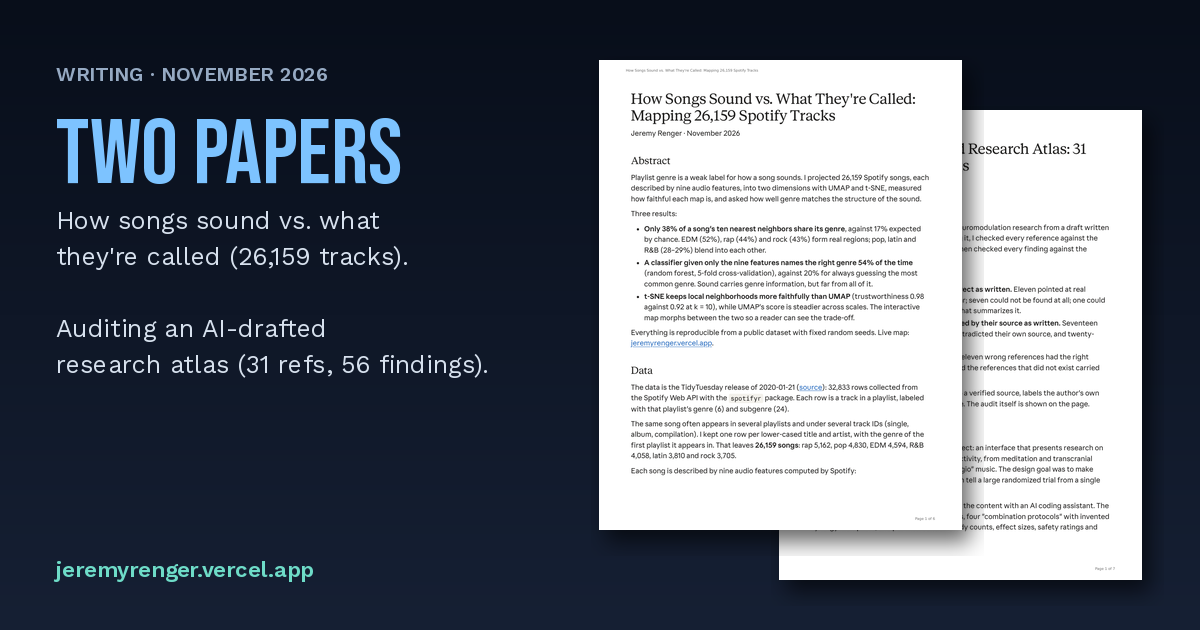
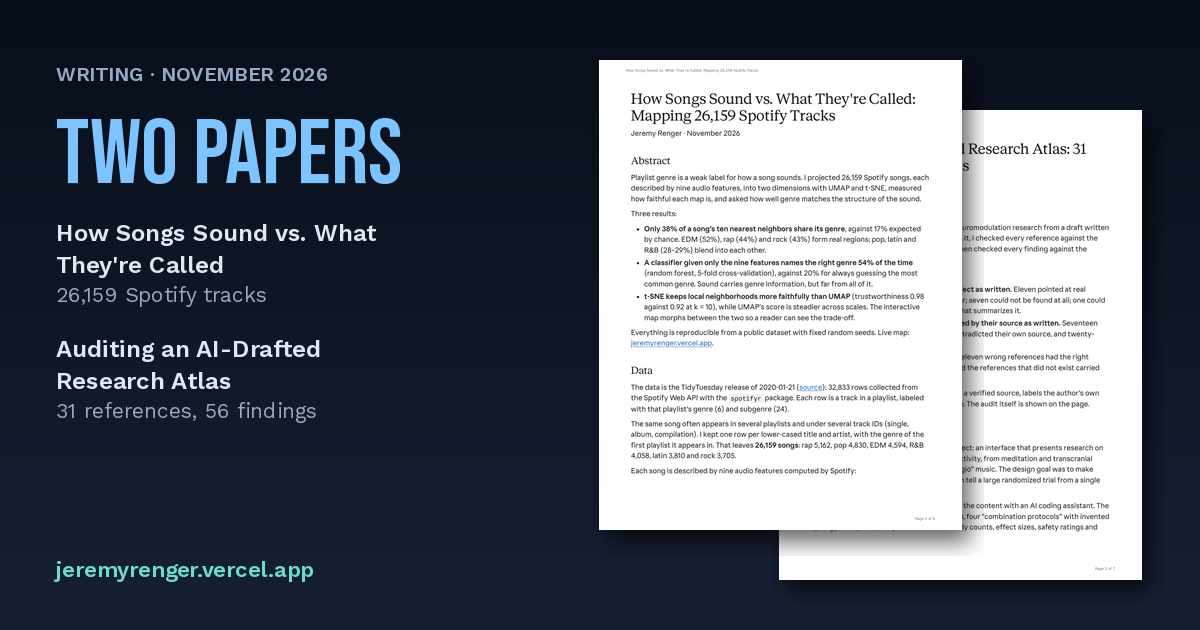
Title case for titles and headings; README lists both papers
Claude-Session: https://claude.ai/code/session_01VEVZvpex9KX87rFkiFvrYh

Changed region(s): [[0.0308, 0.5127, 0.4008, 0.6635], [0.0308, 0.3317, 0.3392, 0.4825]]

diff --git a/app/projects/frequency-atlas/page.tsx b/app/projects/frequency-atlas/page.tsx
@@ -6,7 +6,7 @@ import { FINDING_AUDIT as F, INTERVENTIONS, SOURCE_AUDIT as A } from '../../../l
 const sources = INTERVENTIONS.flatMap((i) => i.citations);
 const verified = sources.filter((c) => c.status === 'verified').length;
 
-const ogTitle = 'Frequency Atlas: a research atlas audited against its sources';
+const ogTitle = 'Frequency Atlas: A Research Atlas Audited Against Its Sources';
 const ogDescription = 'I checked all 31 references and 56 findings in an AI-written draft. 12 references and 4 findings held up. The atlas was rebuilt so every claim links to a verified source.';
 
 export const metadata: Metadata = {
@@ -56,7 +56,7 @@ export default function FrequencyAtlasPage() {
 
         <section className="project-columns reveal reveal-delay-1">
           <article className="detail-panel">
-            <h2 className="section-title" style={{ marginTop: 0 }}>Design decisions</h2>
+            <h2 className="section-title" style={{ marginTop: 0 }}>Design Decisions</h2>
             <ul className="detail-list">
               <li><strong>Evidence first:</strong> every intervention carries a strength badge, and lists sort strongest first.</li>
               <li><strong>Audit in view:</strong> the source chart shows, per intervention, how many sources have been checked.</li>
@@ -66,7 +66,7 @@ export default function FrequencyAtlasPage() {
           </article>
 
           <article className="detail-panel">
-            <h2 className="section-title" style={{ marginTop: 0 }}>Data model</h2>
+            <h2 className="section-title" style={{ marginTop: 0 }}>Data Model</h2>
             <ul className="detail-list">
               <li><strong>Intervention:</strong> category, sourced findings, per-band changes, evidence grade, citations.</li>
               <li><strong>Evidence:</strong> a four-level strength grade plus, for every source, an audit status and a link to the record.</li>
@@ -76,7 +76,7 @@ export default function FrequencyAtlasPage() {
         </section>
 
         <section className="detail-panel reveal reveal-delay-1">
-          <h2 className="section-title" style={{ marginTop: 0 }}>Auditing my own sources</h2>
+          <h2 className="section-title" style={{ marginTop: 0 }}>Auditing My Own Sources</h2>
           <p className="hero-copy" style={{ maxWidth: 'none' }}>
             The first draft of this atlas was written with an AI assistant. I checked every one of its {A.checked} references
             against the publisher, PubMed or the journal&apos;s own site. Only {A.correctAsWritten} were right as written.
@@ -100,7 +100,7 @@ export default function FrequencyAtlasPage() {
         </section>
 
         <section className="detail-panel reveal reveal-delay-1" id="visualizer">
-          <h2 className="section-title" style={{ marginTop: 0 }}>The atlas</h2>
+          <h2 className="section-title" style={{ marginTop: 0 }}>The Atlas</h2>
           <p className="hero-copy" style={{ maxWidth: 'none' }}>
             Filter by intervention type and search findings. Every finding links to its source. Grades follow one rule applied to the cited sources: strong = a large randomized trial or meta-analysis; moderate = controlled human studies or systematic reviews; limited = small pilots only; preliminary = hypotheses, animal studies or secondhand reports only.
           </p>

diff --git a/app/projects/spotify-audio-universe/page.tsx b/app/projects/spotify-audio-universe/page.tsx
@@ -13,7 +13,7 @@ const purity = Object.entries(summary.purity.by_genre)
 const overall = pct(summary.purity.overall);
 const chanceAll = pct(Object.values(summary.purity.by_genre).reduce((t, v) => t + v.chance * v.chance, 0));
 
-const ogTitle = 'Spotify Audio Universe: 26,159 songs mapped by how they sound';
+const ogTitle = 'Spotify Audio Universe: 26,159 Songs Mapped by How They Sound';
 const ogDescription = "Interactive UMAP/t-SNE map of 26,159 real Spotify songs. Only 38% of a song's nearest neighbors share its genre. Morph between projections, search and inspect neighbors.";
 
 export const metadata: Metadata = {
@@ -40,12 +40,12 @@ export default function SpotifyAudioUniversePage() {
             you search, hover, and inspect neighbors.
           </p>
           <div className="actions">
-            <a href="#demo" className="btn btn-primary">Explore the map</a>
+            <a href="#demo" className="btn btn-primary">Explore the Map</a>
             <a href="/papers/Renger_2026_Songs_vs_Genre.pdf" className="btn" target="_blank" rel="noreferrer">
               Read the paper (PDF)
             </a>
             <a
-              href="https://github.com/Jeremy-Renger/portfolio/blob/main/scripts/build_spotify_embedding.py"
+              href="https://github.com/jeremy-renger/portfolio/blob/main/scripts/build_spotify_embedding.py"
               className="btn"
               target="_blank"
               rel="noreferrer"
@@ -76,7 +76,7 @@ export default function SpotifyAudioUniversePage() {
         <SpotifyVisualizer />
 
         <section className="detail-panel reveal reveal-delay-1">
-          <h2 className="section-title" style={{ marginTop: 0 }}>What the map shows</h2>
+          <h2 className="section-title" style={{ marginTop: 0 }}>What the Map Shows</h2>
           <p className="hero-copy" style={{ maxWidth: 'none' }}>
             Playlist genre is a weak label for how a song sounds. Across all songs, {overall}% of a song&apos;s ten
             nearest neighbors in feature space share its genre, against about {chanceAll}% by chance. EDM, rock and rap form real
@@ -106,7 +106,7 @@ export default function SpotifyAudioUniversePage() {
         </section>
 
         <section className="detail-panel reveal reveal-delay-1">
-          <h2 className="section-title" style={{ marginTop: 0 }}>Which genres get confused</h2>
+          <h2 className="section-title" style={{ marginTop: 0 }}>Which Genres Get Confused</h2>
           <p className="hero-copy" style={{ maxWidth: 'none' }}>
             A random forest that hears only the nine audio features gets {Math.round(summary.confusion.accuracy * 100)}% of
             genres right. Its mistakes are not random: they follow the overlaps on the map. Switch the map to

diff --git a/app/page.tsx b/app/page.tsx
@@ -15,7 +15,7 @@ export default function HomePage() {
       <main className="main">
         <section className="hero reveal home-hero">
           <div className="home-hero-copy">
-            <p className="hero-subtitle">Software engineer · data visualization · interactive systems</p>
+            <p className="hero-subtitle">Software Engineer · Data Visualization · Interactive Systems</p>
             <h1 className="hero-title">I build interfaces that make dense technical data readable.</h1>
             <p className="hero-copy">
               Two case studies: a real-data map of {songs} songs built with UMAP and t-SNE, and a research atlas
@@ -32,12 +32,12 @@ export default function HomePage() {
             <div className="home-hero-stage">
               <div className="stage-panel stage-panel-primary">
                 <span className="stage-kicker">Spotify Audio Universe</span>
-                <strong className="stage-title">{songs} real songs</strong>
+                <strong className="stage-title">{songs} Real Songs</strong>
                 <span className="stage-metric">UMAP ↔ t-SNE morph · search · neighbors</span>
               </div>
               <div className="stage-panel stage-panel-secondary">
                 <span className="stage-kicker">Frequency Atlas</span>
-                <strong className="stage-title">Evidence-first design</strong>
+                <strong className="stage-title">Evidence-First Design</strong>
                 <span className="stage-metric">10 interventions · every source audited</span>
               </div>
             </div>
@@ -60,7 +60,7 @@ export default function HomePage() {
           </div>
           <div className="trust-item">
             <span className="trust-label">Code</span>
-            <a href={SITE.github} target="_blank" rel="noreferrer" className="trust-link">github.com/Jeremy-Renger</a>
+            <a href={SITE.github} target="_blank" rel="noreferrer" className="trust-link">github.com/jeremy-renger</a>
           </div>
         </section>
 
@@ -107,7 +107,7 @@ export default function HomePage() {
         </section>
 
         <section className="detail-panel reveal reveal-delay-2">
-          <h2 className="section-title" style={{ marginTop: 0 }}>Get in touch</h2>
+          <h2 className="section-title" style={{ marginTop: 0 }}>Get in Touch</h2>
           <p className="hero-copy" style={{ maxWidth: 'none' }}>
             Open to software engineering roles in data visualization, front end, and robotics software.
           </p>

diff --git a/components/spotify-visualizer.tsx b/components/spotify-visualizer.tsx
@@ -360,7 +360,7 @@ export default function SpotifyVisualizer() {
     <section className="viz-shell detail-panel reveal" id="demo">
       <div className="viz-top">
         <div>
-          <h2 className="section-title" style={{ marginTop: 0 }}>Explore the map</h2>
+          <h2 className="section-title" style={{ marginTop: 0 }}>Explore the Map</h2>
           <p className="hero-copy" style={{ maxWidth: 'none' }}>
             {data ? data.count.toLocaleString('en-US') : '26,159'} real songs, each placed by nine Spotify audio features. Nearby
             points sound alike. Switch projections to watch every track move between the two maps; hover to inspect,
@@ -445,7 +445,7 @@ export default function SpotifyVisualizer() {
 
       {pinned !== null && data ? (
         <section className="viz-track-card">
-          <h3>Pinned track</h3>
+          <h3>Pinned Track</h3>
           {card(pinned)}
           <p className="viz-track-meta" style={{ marginTop: 12 }}><strong>Closest on this map:</strong></p>
           <ul className="viz-neighbors">

diff --git a/app/layout.tsx b/app/layout.tsx
@@ -21,16 +21,16 @@ const description =
 
 export const metadata: Metadata = {
   metadataBase: new URL(SITE.url),
-  title: `${SITE.name} | Software engineer`,
+  title: `${SITE.name} | Software Engineer`,
   description,
   openGraph: {
     type: 'website',
     url: '/',
     siteName: SITE.name,
-    title: `${SITE.name} | Software engineer`,
+    title: `${SITE.name} | Software Engineer`,
     description
   },
-  twitter: { card: 'summary_large_image', title: `${SITE.name} | Software engineer`, description }
+  twitter: { card: 'summary_large_image', title: `${SITE.name} | Software Engineer`, description }
 };
 
 export default function RootLayout({ children }: { children: React.ReactNode }) {

diff --git a/app/writing/page.tsx b/app/writing/page.tsx
@@ -4,7 +4,7 @@ import PortfolioHeader from '../../components/portfolio-header';
 import summary from '../../lib/spotify-summary.json';
 import { FINDING_AUDIT as F, SOURCE_AUDIT as A } from '../../lib/frequency-atlas-data';
 
-const ogTitle = 'Writing: two papers by Jeremy Renger';
+const ogTitle = 'Writing: Two Papers by Jeremy Renger';
 const ogDescription = "How Songs Sound vs. What They're Called (26,159 Spotify tracks) and Auditing an AI-Drafted Research Atlas (31 references, 56 findings). PDFs, November 2026.";
 
 export const metadata: Metadata = {

diff --git a/lib/site.ts b/lib/site.ts
@@ -1,9 +1,9 @@
 // One place for identity and contact links. Empty strings are not rendered.
 export const SITE = {
   name: 'Jeremy Renger',
-  role: 'Software engineer',
+  role: 'Software Engineer',
   url: 'https://jeremyrenger.vercel.app',
-  github: 'https://github.com/Jeremy-Renger',
+  github: 'https://github.com/jeremy-renger',
   linkedin: 'https://www.linkedin.com/in/jeremyrenger',
   email: 'realjeremyrenger@gmail.com'
 };

diff --git a/README.md b/README.md
@@ -16,7 +16,12 @@ Interfaces that make dense technical data readable. Live: https://jeremyrenger.v
 - **Data:** [TidyTuesday 2020-01-21 Spotify songs](https://github.com/rfordatascience/tidytuesday/tree/master/data/2020/2020-01-21), collected from the Spotify Web API. Not affiliated with Spotify.
 
 ### Frequency Atlas
-An information-design study: neuromodulation research ranges from replicated trials to single small studies, so the atlas grades every intervention by evidence strength, sorts by it, and shows sources inline. It is not medical advice.
+A research atlas of brainwave and neuromodulation studies, graded by evidence strength. Its first draft was written with an AI assistant, so before publishing I checked all 31 references and 56 findings against their sources: only 12 references and 4 findings held up as written. Every finding now links to a verified source, and the audit is shown on the page. It is not medical advice.
+
+## Writing
+
+- [How Songs Sound vs. What They're Called: Mapping 26,159 Spotify Tracks](https://jeremyrenger.vercel.app/papers/Renger_2026_Songs_vs_Genre.pdf) (November 2026)
+- [Auditing an AI-Drafted Research Atlas: 31 References, 56 Findings](https://jeremyrenger.vercel.app/papers/Renger_2026_Frequency_Atlas_Source_Audit.pdf) (November 2026)
 
 ## Run locally
 
